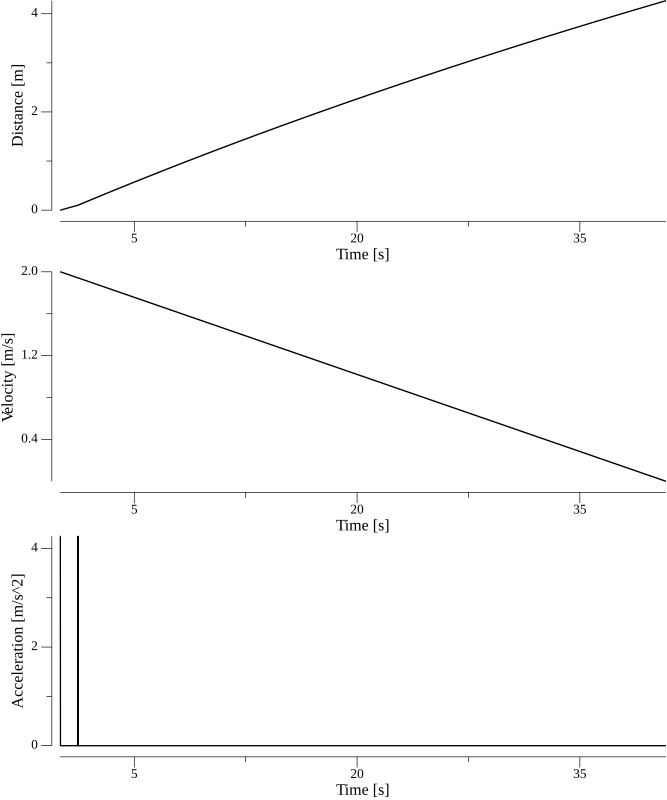
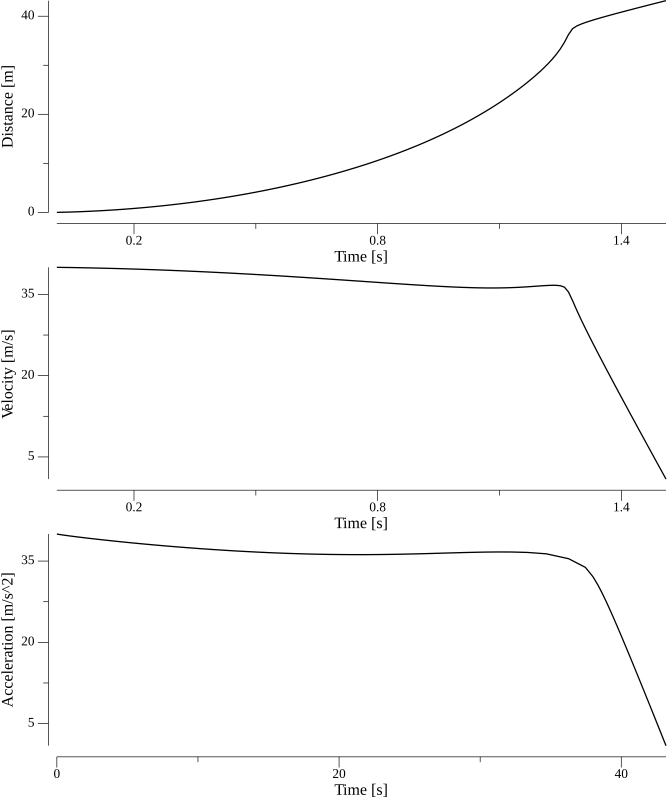
all funcionalities work

diff --git a/main.go b/main.go
@@ -87,7 +87,7 @@ func run() {
 		imd.Clear()
 		var x float64
 		var y float64
-		if(i<len(x_result)){
+		if(y_result[i]>0){
 			x =  draw_result_x[i] + 3
 			y =  draw_result_y[i] +3
 		
@@ -308,6 +308,7 @@ func simulation(g,m,u,b,alfa,v float64) ([]float64,[]float64,[]float64){
 	for _,gravity_source := range gravity_sources{
 		r := math.Sqrt(math.Pow(gravity_source.x-x_prev,2)+math.Pow(gravity_source.y-y_prev,2))
 		F := 6.67430*math.Pow(10,-11)*m*gravity_source.mass/math.Pow(r,2)
+		fmt.Println(F/m)
 		Fx_sources += F*(gravity_source.x-x_prev)/r 
 		Fy_sources += F*(gravity_source.y-y_prev)/r 
 	}
@@ -315,8 +316,8 @@ func simulation(g,m,u,b,alfa,v float64) ([]float64,[]float64,[]float64){
 	Fy := b*(math.Pow(vx_prev,2)+math.Pow(vy_prev,2))*math.Sin(alfa) - m*g +Fy_sources
 	diff := Fy*math.Cos(alfa)+Fx*math.Sin(alfa)
 	if diff<0{
-		Fx += -diff*math.Sin(alfa)-diff*u*math.Cos(alfa) 
-		Fy += -diff*math.Cos(alfa) + diff*u*math.Sin(alfa)
+		Fx += -diff*math.Sin(alfa)+diff*u*math.Cos(alfa) 
+		Fy += -diff*math.Cos(alfa) - diff*u*math.Sin(alfa)
 	}
 	ax_prev := Fx/m
 	ay_prev := Fy/m
@@ -332,7 +333,7 @@ func simulation(g,m,u,b,alfa,v float64) ([]float64,[]float64,[]float64){
 		x := x_prev + h*vx_prev + math.Pow(h,2)/2*ax_prev
 		y := y_prev + h*vy_prev + math.Pow(h,2)/2*ay_prev
 		vx := vx_prev + h*ax_prev
-		vy := vy_prev + h*vy_prev
+		vy := vy_prev + h*ay_prev
 		Fx_sources = 0.0
 		Fy_sources = 0.0
 		for _,gravity_source := range gravity_sources{
@@ -343,16 +344,21 @@ func simulation(g,m,u,b,alfa,v float64) ([]float64,[]float64,[]float64){
 		}
 		Fx = -b*(math.Pow(vx,2)+math.Pow(vy,2))*math.Cos(alfa) + Fx_sources
 		Fy = b*(math.Pow(vx,2)+math.Pow(vy,2))*math.Sin(alfa) - m*g +Fy_sources
-		if y<=(-math.Tan(alfa)*x+height){
-			fmt.Println("Chuj")
+		if y<=(-math.Tan(alfa)*x+height+0.01) && y>=(-math.Tan(alfa)*x+height-0.01){
 			diff := Fy*math.Cos(alfa)+Fx*math.Sin(alfa)
 			if diff<0{
-				Fx = Fx -diff*math.Sin(alfa)-diff*u*math.Cos(alfa) 
-				Fy = Fy -diff*math.Cos(alfa) + diff*u*math.Sin(alfa)
+				Fx = Fx -diff*math.Sin(alfa)+diff*u*math.Cos(alfa) 
+				Fy = Fy -diff*math.Cos(alfa) - diff*u*math.Sin(alfa)
 			}
 		}
+		
+		
+		// fmt.Println(float64(i)*h)
+
 		ax := Fx/m
 		ay := Fy/m
+		
+		
 		x_result = append(x_result, x)
 		y_result = append(y_result, y)
 		vx_result = append(vx_result, vx)
@@ -418,8 +424,8 @@ func plot_results(t_result,x_result,v_result,a_result []float64) {
 	}
 	lineData3 := make(plotter.XYs, len(t_result))
 	for i := range t_result {
-		lineData3[i].X = t_result[i]
-		lineData3[i].Y = a_result[i]
+		lineData3[i].X = x_result[i]
+		lineData3[i].Y = y_result[i]
 	}
 	line1, err := plotter.NewLine(lineData1)
 	if err != nil {
